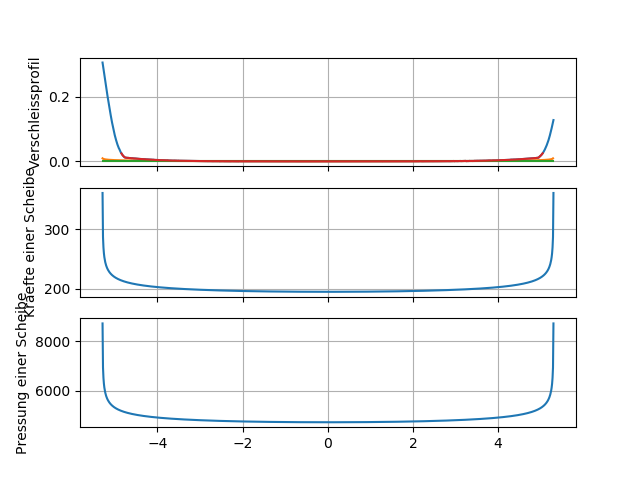
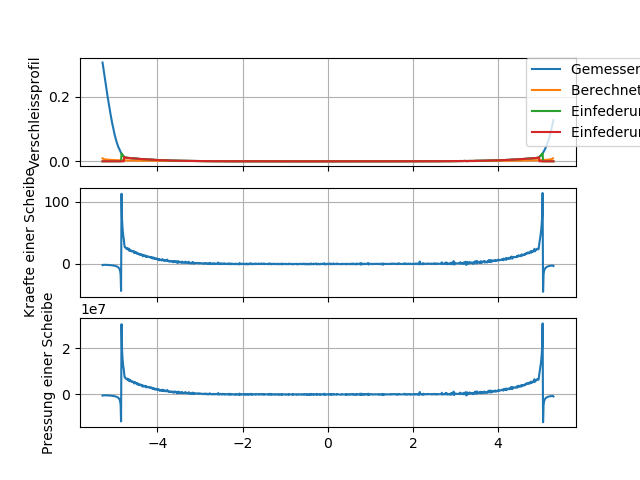
Stage2 commit - Geht weiter

diff --git a/wip_import.py b/wip_import.py
@@ -1,5 +1,4 @@
 ### Alle benoetigten Bibl. laden
-import threading
 import math
 import pylab
 import pandas as pd
@@ -18,7 +17,7 @@ QKZ = 0.3                                           ### Querkontraktionszahl
 WKRAD = 11/2                                        ### Waelzkoerperdurchmesser
 WKLEN = 10.6                                        ### Waelzkoerperlaenge
 RHO = (1/(WKRAD))                                   ### Konstante nach HERTZ
-l = 10.6
+l = 10.6 / 1000
 FGES = int(input('Gesamtlagerkraft? (In [kN]) '))   ### Lagergesamtlast
 ANZWK = int(input('Anzahl der Waelzkoerper? '))     ### Anzahl der Waelzkoerper im Lager
 FWK = round(((FGES*1000)/ANZWK), 2)                 ### Last auf einzelnen WK
@@ -32,12 +31,65 @@ print('Die Kontaktbreite betraegt: '+str(B)+' mm')
 P0 = round((2*FWK)/(pi*B*WKLEN), 2)
 print('Die maximal Pressung im Kontakt betraegt: '+str(P0)+' N/mm^2')
 
-### Initialisiere Gewichtungsfunktion Matrix
-GFKT = np.zeros((999, 999))
-
-### Einlesen der Messdaten
+### Einlesen der Messdaten (Spalte 0, 1, 2: X-Koord., WK-Kontur, Sch.Kontur
 DFREAD = pd.read_excel(open('Profil12.xls', 'rb'), sheetname='Tabelle1')
 DF = DFREAD.as_matrix()
+
+
+### DELTA_RP berechnen. Einfederung einer Scheibe auf einer Rolle (Startwert für spätere Iteration?)
+DELTA_RP = 2.66*(7**0.09) * (FWK*(1-0.3**2)/(2.08*10**5*10.6)**0.91)
+DELTA_RP2=np.zeros((shape(DF)))
+for c in range (len(DF)):
+    for b in range(ndim(DF)):
+        if  DF[c, 1] <= DELTA_RP:
+            DELTA_RP2[c, b] = DF[c, b]
+        else:
+            DELTA_RP2[c, b] = 0
+Q_I = np.zeros(len(DF))
+
+### Berechnung der Tatsächlichen Kontaktlänge
+
+### Einfederung nach van der Sandt (kleiner als nach Teutsch.. warum?)
+DEL_K = (3.97*(FWK**(9/10))) / ((1*10**5)*((l*1000)**(8/10)))
+DEL_K2 = np.zeros((shape(DF)))
+### Berechnung des Profilabschnitts der tatsächlich in Kontakt mit mit Scheibe
+### ist. Berechnung anhand von DEL_K (s.o.)
+b = 0
+c = 0
+for c in range(len(DF)):
+    for b in range(ndim(DF)):
+        if  DF[c, 1] <= DEL_K:
+            DEL_K2[c, b] = DF[c, b]
+
+        else:
+            DEL_K2[c, b] = 0
+
+### Berechnen der allgemeinen Kontur eines WK's anhand Messpunkte (Spalte 1 in Profilschrieb)
+i = 0
+WK_PROFIL = np.zeros(999)
+for i in range(len(DFREAD)):
+    WK_PROFIL[i] = 3.85*10**(-3)*np.log10(1/(1-(2*DF[i, 0]/WKLEN)**2))
+
+### Lin. Gl. Sys loesen und einzelne Scheibenkraefte berechnen
+### Iteration von DELTA_RP (absenken der Einfederung Delta bis Integral der
+### Kräfte der Scheiben der WK Einzelkraft entspricht
+
+### DELTA_RP3 = linspace(max(DELTA_RP2), 0, num=1000)
+
+### Ab hier neuer Code
+''' Gewichtungsmatrix (reale Kontaktflaeche erzeugen und mit realen Abständen
+fuellen'''
+GEW_MTX = np.zeros((len(DEL_K2), len(DEL_K2)))
+for i in range(len(DEL_K2)):
+    for j in range(ndim(DEL_K2)):
+        if DEL_K2[i, j] != NaN:
+            GEW_MTX[i, j] = abs(j-i)*l
+        else:
+            GEW_MTX[i, j] = 0
+GEW_MTX2 = np.zeros((len(DEL_K2), len(DEL_K2)))
+
+### Initialisiere Gewichtungsfunktion Matrix
+GFKT = np.zeros((len(DF), len(DF)))
 
 ### Gewichtungsfunktionmatrix füllen (Abstände berechnen, reale)
 for i in range(len(DF)):
@@ -45,94 +97,68 @@ for i in range(len(DF)):
     for j in range(len(DF)):
         GFKT[i, j] = abs((DF[i, 0] - DF[j, 0]))
 
-### Gewichtungsfunktionmatrix füllen (Abstände berechnen, reale)
-GFKT2 = np.zeros((999, 999))
-for i in range(len(DF)):
-
-    for j in range(len(DF)):
-        GFKT2[i, j] = abs(j-i)*l
-
+### Faktor K2 -> quelle: FVA bericht / diss / teutsch?
 K2 = 1 / 0.92
 ### Anzahl der Scheiben in die der WK aufgeteilt wird
-N = 90
+N = 1000
 
+### Gewichtungsfunktionmatrix füllen (Abstände berechnen, reale)
+GFKT2 = np.zeros((len(DF), len(DF)))
+for i in range(len(DF)):
+    if DEL_K2[i,1]!=0:
+        for j in range(len(DF)):
+            GFKT2[i, j] = abs(j-i)*l
 ### Gewichtungsfunktionmatrix für j=k und j!=k erzeugen
-GFKT3 = np.zeros((999, 999))
+GFKT3 = np.zeros((len(DF), len(DF)))
 for i in range(len(GFKT)):
     for j in range(len(GFKT)):
         if j != i:
             GFKT3[i, j] = (1/GFKT2[i, j])**K2
         else:
             GFKT3[i, j] = (4/l)**K2
-
 ### S_I berechnen (S_0 irrelevant, Axiallager). Aus Alternative Slicing Technique.. (Teutsch)
 C_I = 3.17*(WKRAD)**0.08*((1-QKZ**2)/EMOD)
-S_I = C_I**K2 / (l/N)
-GFKT4 = np.zeros((999, 999))
+S_I = C_I**K2 / (1000*l/N)
+GFKT4 = np.zeros((len(DF), len(DF)))
 GFKT4 = (N/sum(GFKT3))*S_I*GFKT3
 
-### DELTA_RP berechnen. Einfederung einer Scheibe auf einer Rolle (Startwert für spätere Iteration?)
-DELTA_RP = 2.66*(7**0.09) * (FWK*(1-0.3**2)/(2.08*10**5*10.6)**0.91)
-DELTA_RP2 = [DELTA_RP] * 999
-Q_I = np.zeros(999)
-
-### Berechnung der Tatsächlichen Kontaktlänge
-
-### Einfederung nach van der Sandt (kleiner als nach Teutsch.. warum?)
-DEL_K = (3.97*(FWK**(9/10))) / ((1*10**5)*(l**(8/10)))
-DEL_K2 = np.zeros((999, 1))
-### Berechnung des Profilabschnitts der tatsächlich in Kontakt mit mit Scheibe
-### ist. Berechnung anhand von DEL_K (s.o.)
-for c in range(len(DF)):
-    if  DF[c, 1] <= DELTA_RP:
-        DEL_K2[c] = DF[c, 1]
-
-    else:
-        DEL_K2[c] = NaN
-
-### Berechnen der allgemeinen Kontur eines WK's anhand Messpunkte (Spalte 1 in Profilschrieb)
-i = 0
-WK_PROFIL = np.zeros(999)
-for i in range(len(DFREAD)):
-    WK_PROFIL[i] = 3.85*10**(-3)*np.log10(1/(1-(2*DF[i, 0]/WKLEN)**2))
-    print(WK_PROFIL[i])
-
-### Lin. Gl. Sys loesen und einzelne Scheibenkraefte berechnen
-### Iteration von DELTA_RP (absenken der Einfederung Delta bis Integral der
-### Kräfte der Scheiben der WK Einzelkraft entspricht
-
-DELTA_RP3 = linspace(max(DELTA_RP2), 0, num=1000)
-
 j = 0
-while j < len(DELTA_RP3):
-    DELTA_RP2 = [DELTA_RP3[j]] * 999
-    Q_I = np.linalg.solve(GFKT4, DELTA_RP2)
+while j < len(DELTA_RP2):
+###    DELTA_RP2 = [DELTA_RP3[j]] * 999
+    Q_I = np.linalg.solve(GFKT4[nonzero[GFKT4]], DELTA_RP2[nonzero(DELTA_RP2)])
     if np.trapz(Q_I)/FWK > 2:
-        j += 100
+        j += 200
     if np.trapz(Q_I)/FWK > 1.5:
-        j += 5
+        j += 50
     if np.trapz(Q_I)/FWK > 1.05:
-        j += 1
+        j += 10
     j += 1
     if np.trapz(Q_I)/FWK <= 1.01 and np.trapz(Q_I)/FWK >= 0.99:
         break
     print(np.trapz(Q_I)/FWK)
+    if np.trapz(Q_I)/FWK < 0.9:
+        break
 ### Berechnen der realen Flaechenpressung einer einzelnen Scheibe
 SCH_PRESSUNG = Q_I/(2*B*(l/N))
-### Graphen
-f, axes = plt.subplots(3, 1, sharex=True)
-axes[0].plot(DF[:, 0], DF[:, 1],
-        DF[:, 0], WK_PROFIL,
-        DF[:, 0], DELTA_RP2,
-        DF[:,0], DEL_K2)
-axes[0].set_ylabel('Verschleissprofil')
-axes[0].grid()
-axes[1].plot(DF[:, 0], Q_I)
-axes[1].set_ylabel('Kraefte einer Scheibe')
-axes[1].grid()
 
-axes[2].plot(DF[:, 0], SCH_PRESSUNG)
-axes[2].set_ylabel('Pressung einer Scheibe')
-axes[2].grid()
+### Graphen
+f, AXES = plt.subplots(3, sharex=True)
+AXES[0].plot(DF[:, 0], DF[:, 1], label='Gemessenes Profil')
+AXES[0].plot(DF[:, 0], WK_PROFIL, label='Berechnetes WK Profil')
+AXES[0].plot(DF[:, 0], DELTA_RP2[:, 1], label='Einfederung nach Teutsch')
+AXES[0].plot(DF[:, 0], DEL_K2[:, 1], label='Einfederung nach v.d.Sandt')
+AXES[0].set_ylabel('Verschleissprofil')
+AXES[0].legend(bbox_to_anchor=(0.9, 1), loc=2, borderaxespad=0.)
+AXES[0].grid()
+AXES[1].plot(DF[:, 0], Q_I)
+AXES[1].set_ylabel('Kraefte auf eine Scheibe')
+plt.legend(bbox_to_anchor=(0.9, 1), loc=2, borderaxespad=0.)
+AXES[1].grid()
+
+AXES[2].plot(DF[:, 0], SCH_PRESSUNG)
+AXES[2].set_ylabel('Pressung einer Scheibe')
+plt.legend(bbox_to_anchor=(0.9, 1), loc=2, borderaxespad=0.)
+AXES[2].grid()
+
 f.savefig('foo.png')
 show()
